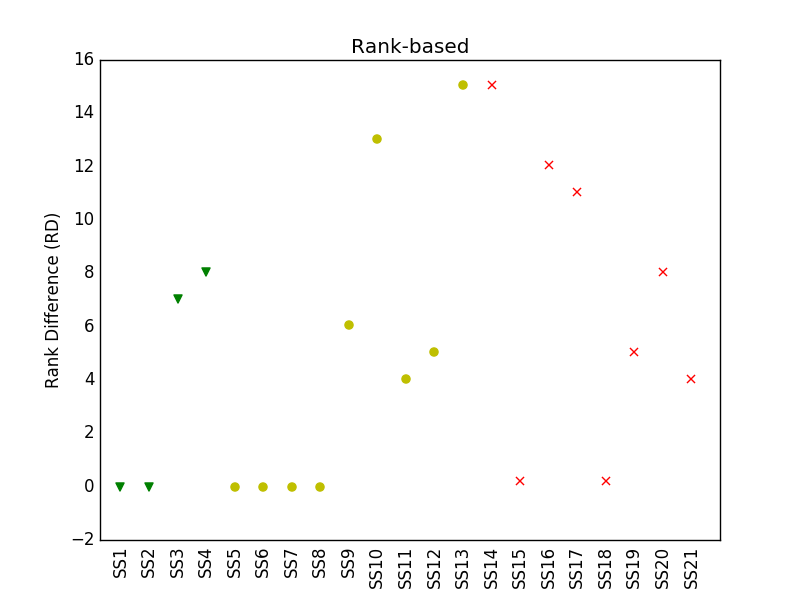
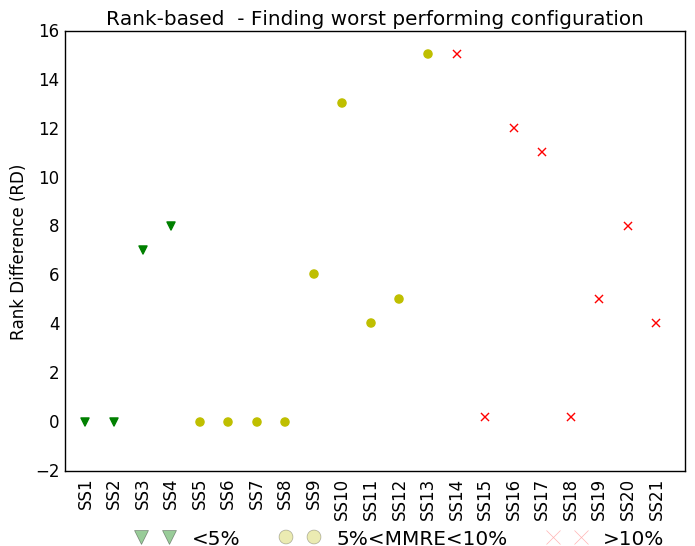
rebuttal

diff --git a/rebuttal_worst.py b/rebuttal_worst.py
@@ -58,9 +58,16 @@ ax1.scatter([gap*(i+1) for i in xrange(13, 21)], data[13:], color='r', marker='x
 ax1.tick_params(axis=u'both', which=u'both',length=0)
 ax1.set_ylim(-2,16)
 ax1.set_xlim(10, 770)
-ax1.set_title('Rank-based')
+ax1.set_title('Rank-based  - Finding worst performing configuration')
 ax1.set_ylabel("Rank Difference (RD)")
 plt.sca(ax1)
 plt.xticks([gap*(i+1) for i in xrange(0, 21)], names, rotation=90)
 
-plt.savefig('rebuttal_worst_performance.png')
+from matplotlib.lines import Line2D
+circ3 = Line2D([0], [0], linestyle="none", marker="x", alpha=0.3, markersize=10, color="r")
+circ1 = Line2D([0], [0], linestyle="none", marker="v", alpha=0.4, markersize=10, color="g")
+circ2 = Line2D([0], [0], linestyle="none", marker="o", alpha=0.3, markersize=10, color="y")
+plt.figlegend((circ1, circ2, circ3), ('<5%', '5%<MMRE<10%', '>10%'), frameon=False, loc='lower center',
+              bbox_to_anchor=(0.5, -0.036),fancybox=True, ncol=3)
+f.set_size_inches(8, 5.5)
+plt.savefig('rebuttal_worst_performance.png', bbox_inches='tight')
